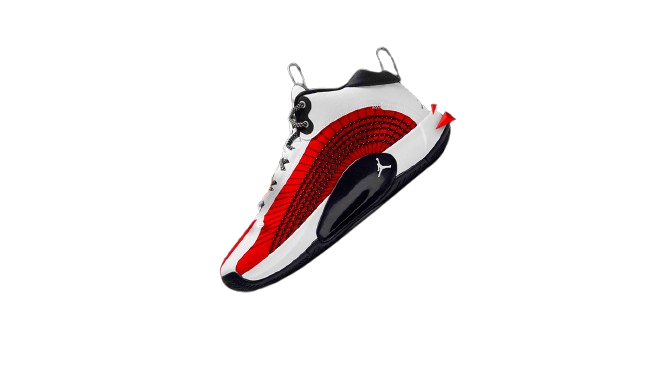
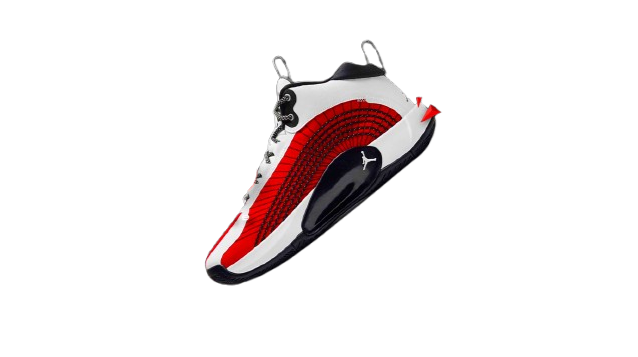
New Avilable

Changed region(s): [[0.2978, 0.0924, 0.685, 0.8011]]

diff --git a/src/components/New.jsx b/src/components/New.jsx
@@ -1,27 +1,49 @@
-import React from 'react'
+import React, { useContext } from 'react'
 import Container from './Container';
 import SliderModule from "react-slick";
+import {Data} from "./ApiData"
 const Slider = SliderModule.default;
 const New = () => {
   const settings = {
-    dots: true,
     infinite: true,
     speed: 500,
-    slidesToShow: 3,
-    slidesToScroll: 3,
-    fade: true,
+    slidesToShow: 4,
+    slidesToScroll: 2,
     waitForAnimate: false,
+    arrows:false,
+    autoplay:true,
+    autoplayspeed: 2000,
   };
+  let info = useContext(Data)
   return (
     <div className="text-white py-12.5">
       <Container>
          <h2 className="text-5xl font-semibold italic text-center">New Available</h2>
-         <div className="">
+         <div className="pt-20 pb-10">
           <Slider {...settings}>
-            <div className="">One</div>
-            <div className="">Two</div>
-            <div className="">Three</div>
-            <div className="">Four</div>
+            {info.slice(176, 190).map((item)=>(
+              <div key={item.id} className=" px-3  ">
+                <div className="border rounded-4xl">
+                <div className="rounded-t-4xl p-5">
+                  <img src={item.thumbnail} alt={item.id} />
+                </div>
+                <div className="bg-red-500 rounded-b-4xl px-5 pt-2 pb-4">
+                <div className="flex justify-between items-center py-2">
+                  <div className="">
+                    <h2 className="text-white text-2xl">{item.title.slice(0, 15)}</h2>
+                  </div>
+                  <div className="">
+                    <p className=" lg:text-[16px] text-[12px]">{(item.price-(item.price * item.discountPercentage) / 100).toFixed(2)}</p>
+                  </div>
+                </div>
+                <div className="flex justify-between">
+                    <p className="capitalize lg:text-sm text-[12px] text-[#d3d1d1]">{item.category}</p>
+                    <p className="lg:text-[12px]   text-[10px] text-black line-through">{item.price}</p>
+                </div>
+                </div>
+                </div>
+              </div>
+            ))}
           </Slider>
          </div>
       </Container>

diff --git a/src/main.jsx b/src/main.jsx
@@ -8,6 +8,8 @@ import { ApiData } from './components/ApiData.jsx';
 
 createRoot(document.getElementById('root')).render(
   <ApiData>
+  <StrictMode>
     <App />
+  </StrictMode>
   </ApiData>,
 )

diff --git a/src/components/Banner.jsx b/src/components/Banner.jsx
@@ -19,7 +19,6 @@ const Banner = () => {
     slidesToShow: 1,
     slidesToScroll: 1,
   };
-  console.log(Slider)
   return (
     <div>
       <Container>